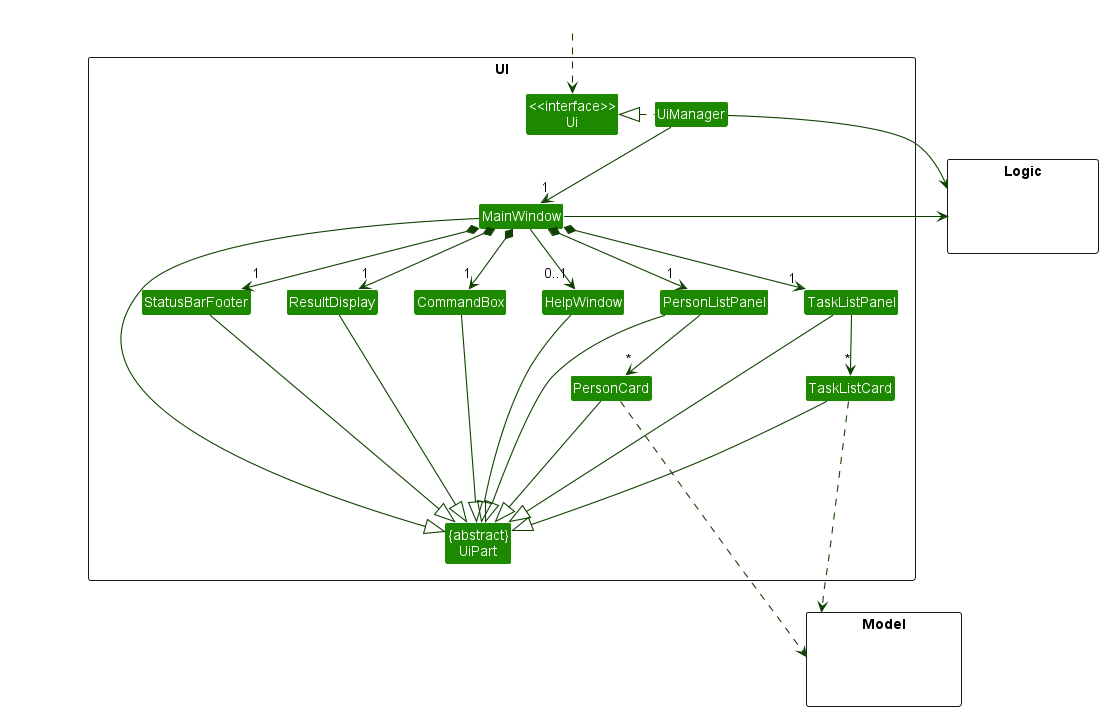
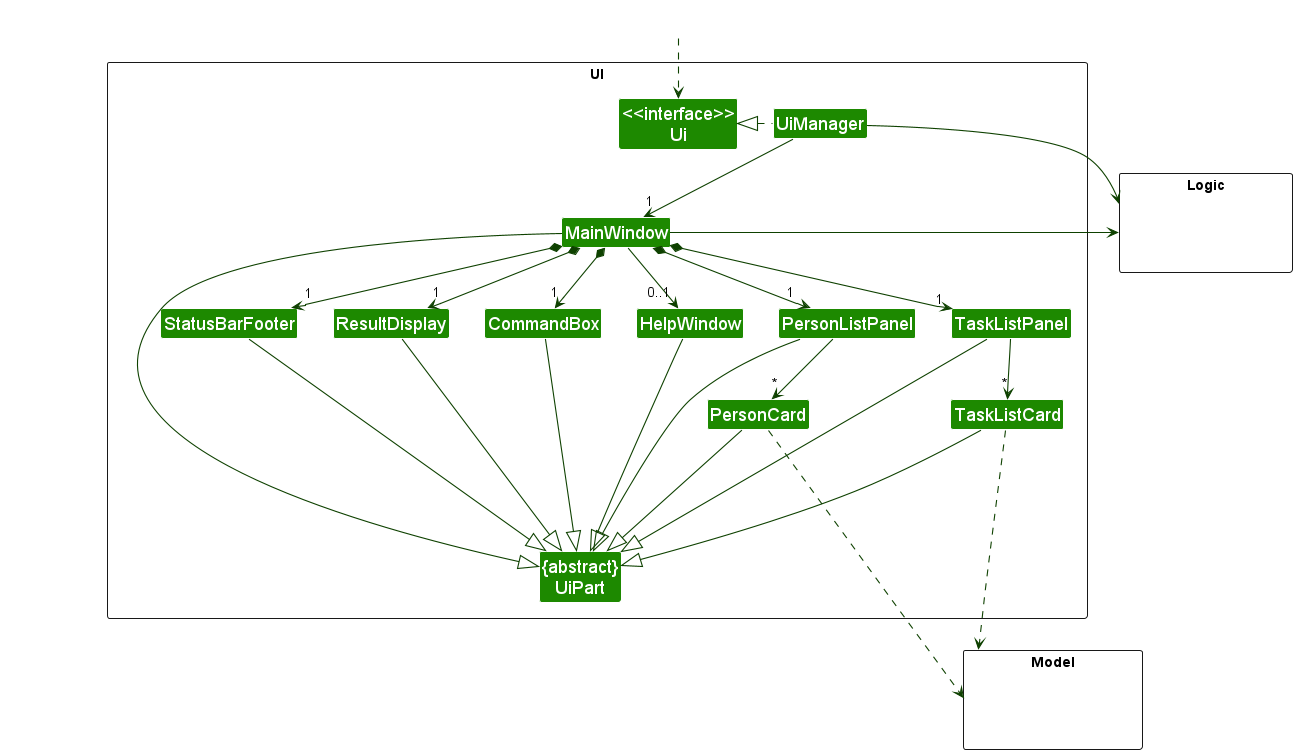
Resize Ui class diagram

diff --git a/docs/DeveloperGuide.md b/docs/DeveloperGuide.md
@@ -80,7 +80,7 @@ The sections below give more details of each component.
 
 The **API** of this component is specified in [`Ui.java`](https://github.com/AY2223S1-CS2103T-T13-4/tp/tree/master/src/main/java/taskbook/ui/Ui.java)
 
-![Structure of the UI Component](images/UiClassDiagram.png)
+<img src="images/UiClassDiagram.png" width="900">
 
 The UI consists of a `MainWindow` that is made up of parts e.g.`CommandBox`, `ResultDisplay`, `PersonListPanel`, `StatusBarFooter` etc. All these, including the `MainWindow`, inherit from the abstract `UiPart` class which captures the commonalities between classes that represent parts of the visible GUI.
 
